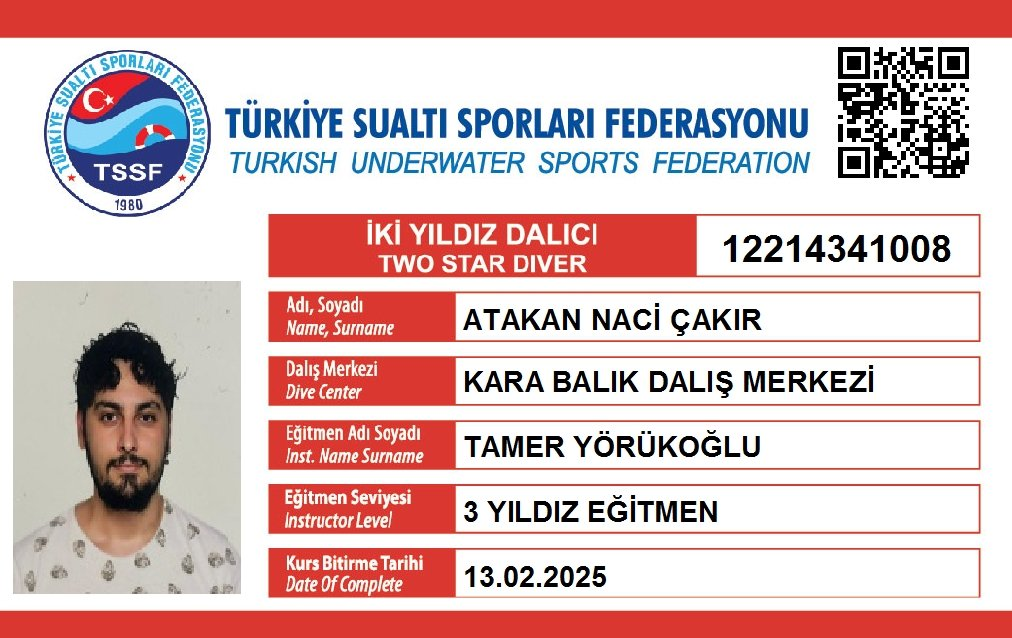
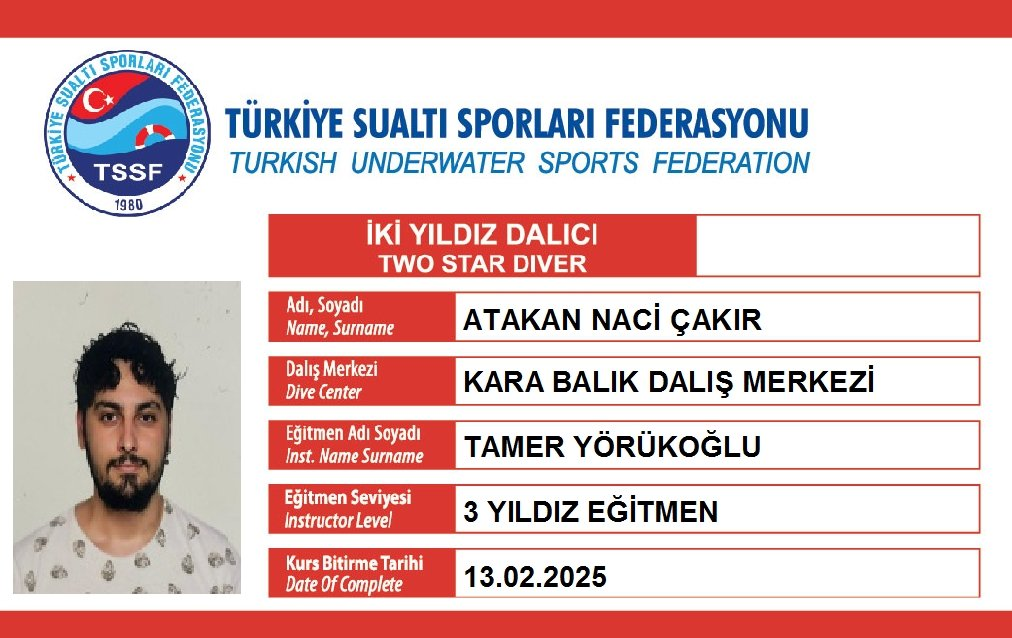
Add final certificates (IDs redacted), redact diver card ID
Claude-Session: https://claude.ai/code/session_01R5bwfGLbBsUB8caBQAkADE

Changed region(s): [[0.8271, 0.0596, 0.9802, 0.2978], [0.7045, 0.3574, 0.9496, 0.4169]]

diff --git a/assets/js/main.js b/assets/js/main.js
@@ -82,7 +82,7 @@
     const FALLBACK = ["GFA Winter Jam - ODTU Teknokent ATOM.jpg", "Game Development Winter Camp 2022 - Bilisim Vadisi.jpg"];
     const SHOW = 6;
     // Featured first: game / Unity / jam certificates, then everything else
-    const PRIORITY = [/jam/i, /game|oyun/i, /unity/i, /c#/i, /scrum|product|proje|ürün/i];
+    const PRIORITY = [/jam|hackathon/i, /bootcamp/i, /game|oyun/i, /unity/i, /c#/i, /scrum|product|proje|ürün/i];
     const rank = n => { const i = PRIORITY.findIndex(r => r.test(n)); return i < 0 ? 99 : i; };
     const gal = document.getElementById("cert-gallery");
     const more = document.getElementById("cert-more");

diff --git a/index.html b/index.html
@@ -446,6 +446,6 @@
   </footer>
 
   <script>window.CERT_FILES = [{% for f in site.static_files %}{% if f.path contains '/assets/img/certs/' %}{{ f.name | jsonify }},{% endif %}{% endfor %}];</script>
-  <script src="assets/js/main.js?v=5"></script>
+  <script src="assets/js/main.js?v=6"></script>
 </body>
 </html>
